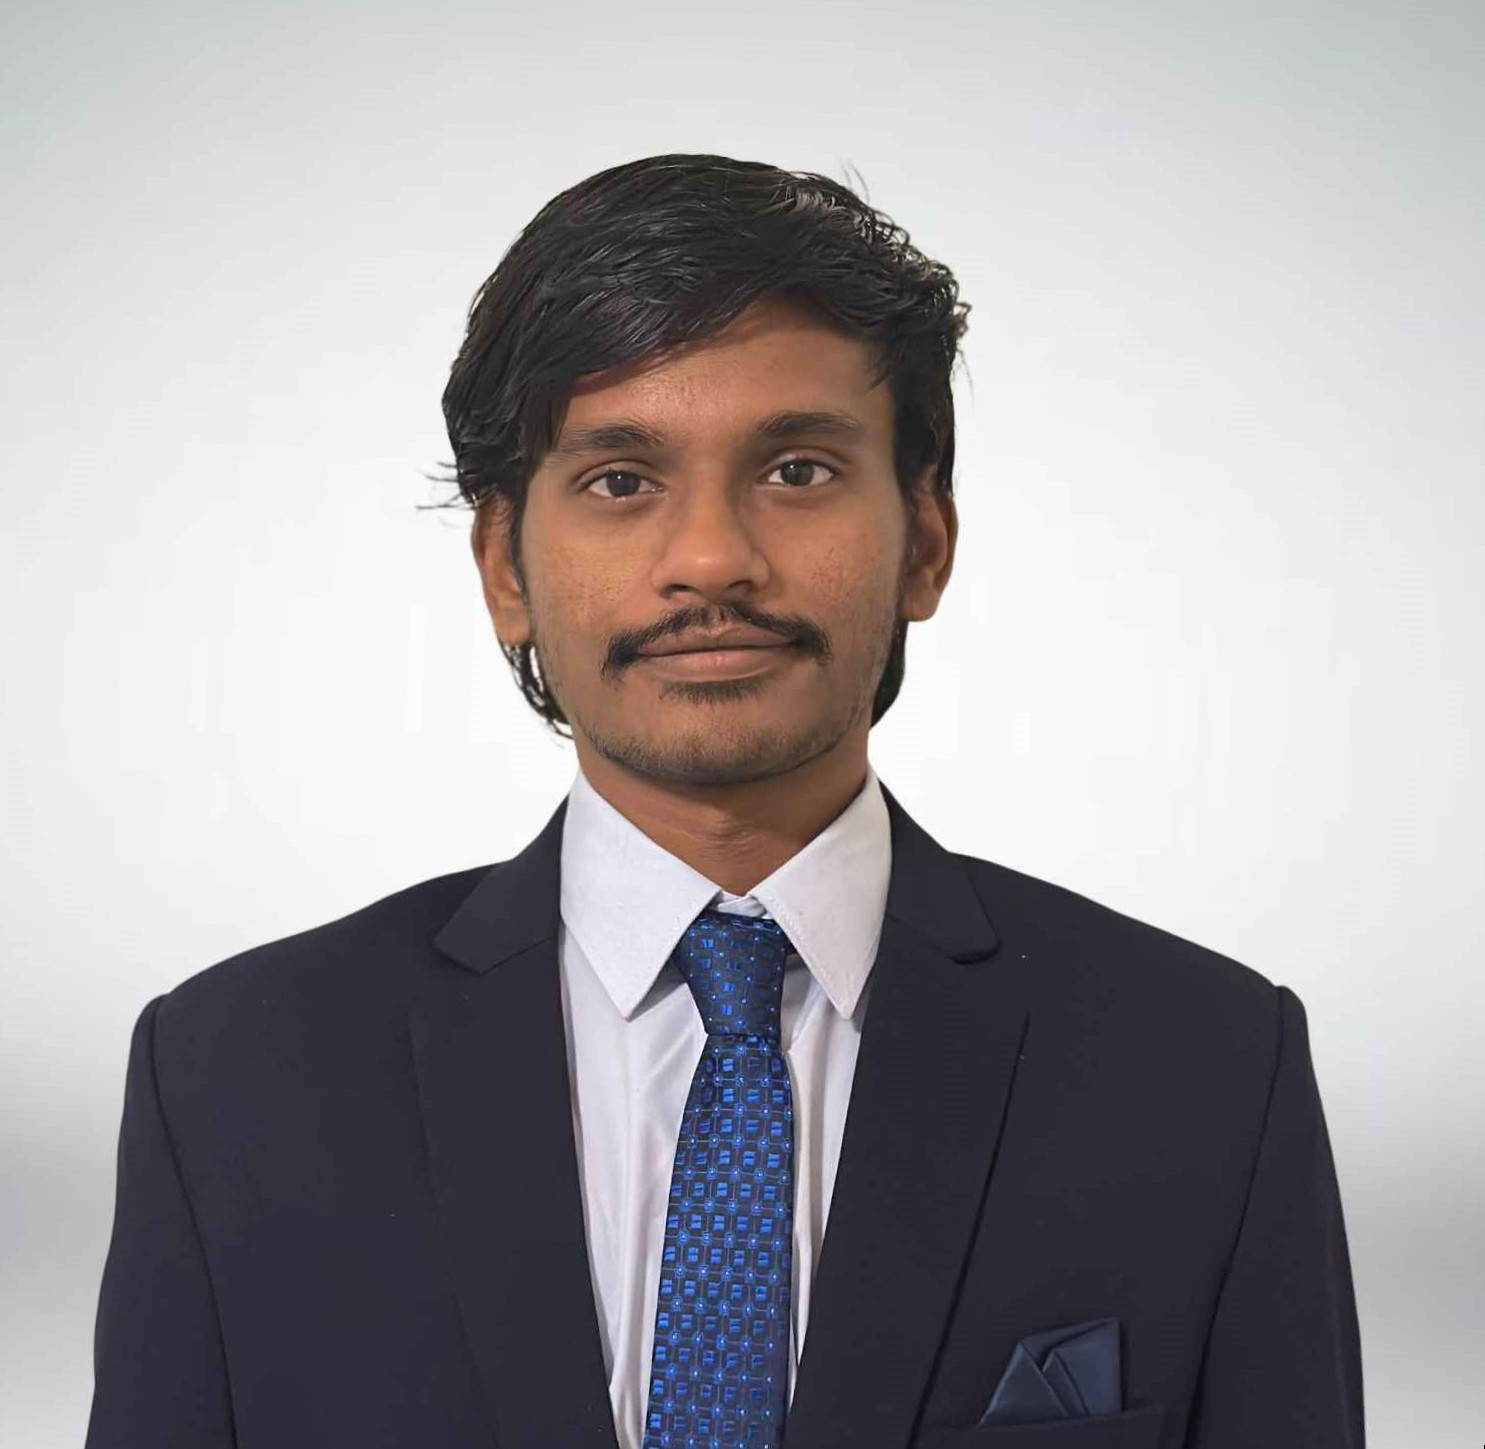
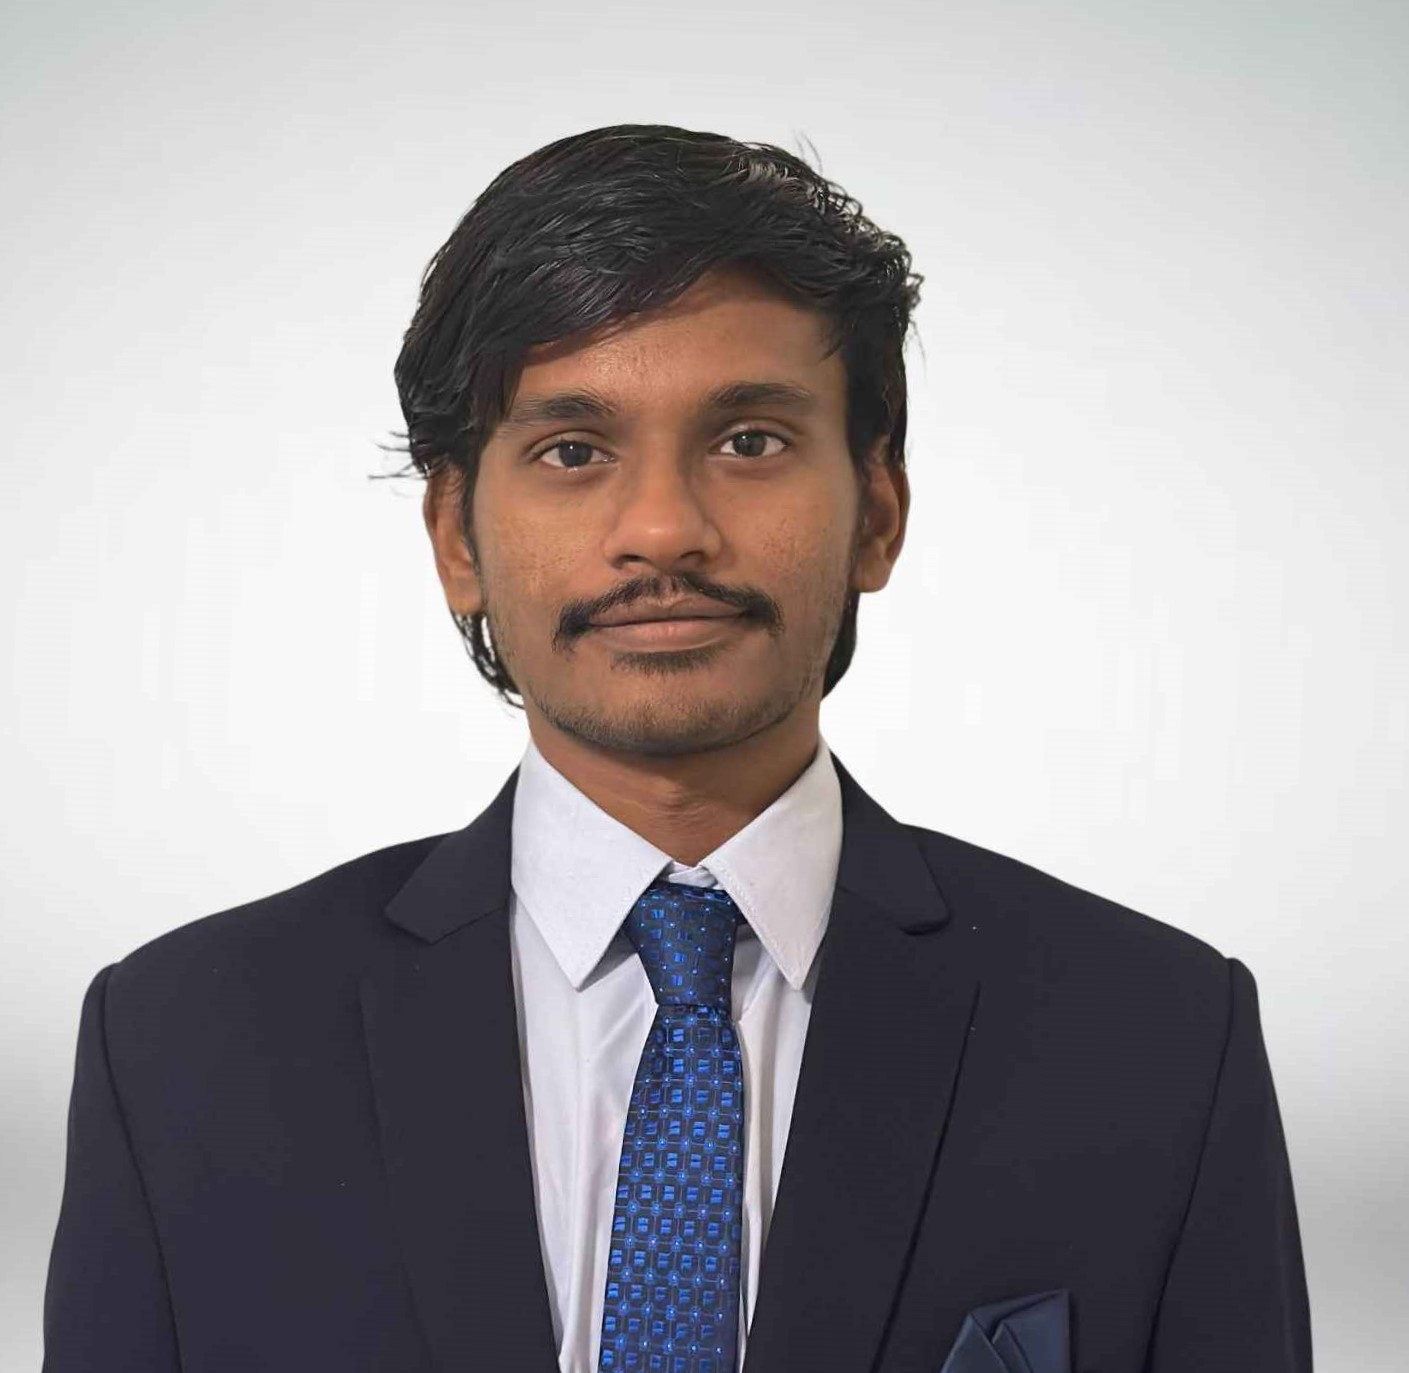
Editing CV links Reiterating deployment

diff --git a/pages/cv.html b/pages/cv.html
@@ -15,5 +15,5 @@ external_url:
     https://docs.google.com/gview?url=https://tejalbarnwal.github.io/pdfs/CV.pdf&embedded=true
 </a> -->
 
-<iframe src="https://drive.google.com/file/d/1-lLNQAUHq-Zso_PkHgD5RguQl78b0x53/view?usp=sharing" width="75%" height="1000px"></iframe>
+<iframe src="https://docs.google.com/gview?url=https://naren200.github.io/pdfs/CV.pdf&embedded=true" width="75%" height="1000px"></iframe>
 </div>

diff --git a/pages/art.md b/pages/art.md
@@ -12,7 +12,7 @@ permalink: /art/
 <p style="text-align: center;">I am passionate about entrepreneurship and I believe that technology can be used to solve some of the world's biggest problems. I am excited to use my skills in robotics and artificial intelligence to create businesses that make a positive impact on the world.</p>
 
 
-<p>
+<p style="font-size: 22px">
 <br>
 <br>
 <b>My long term goals are to:</b></p>
@@ -31,7 +31,7 @@ permalink: /art/
 I am confident that I can achieve my goals with hard work and dedication. I am excited to see what the future holds and I am grateful for the opportunity to pursue my passion for entrepreneurship.
 </p>
 
-<p><b>Describing my passion towards entrepreneurship</b></p>
+<p style="font-size: 20px"><b>Describing my passion towards entrepreneurship</b></p>
 
 Entrepreneurship has always been a driving force in my life. The idea of taking innovative ideas and turning them into successful ventures ignites a fire within me. I firmly believe that my combination of technical expertise in robotics and AI, coupled with my entrepreneurial spirit, will pave the way for me to create a business that not only pushes the boundaries of technology but also makes a positive impact on society.
 
@@ -39,7 +39,7 @@ With my background in robotics and AI, I am constantly exploring ways to harness
 
 My long-term goal is to establish a business that not only develops and manufactures advanced robotics but also integrates AI algorithms to enhance their capabilities further. I am passionate about creating intelligent machines that can autonomously perform complex tasks, revolutionizing industries such as healthcare, manufacturing, and logistics.
 
-<p><b>Past entrepreneurial experience</b></p>
+<p style="font-size: 20px"><b>Past entrepreneurial experience</b></p>
 
 One of my most significant entrepreneurial experiences to date involved creating custom content through a series of one-on-one discussions with a business. This collaboration allowed me to understand their unique needs and develop tailored solutions. By delivering compelling content that met their requirements, I not only satisfied their expectations but also built a strong professional relationship. This experience reaffirmed my belief in the power of effective communication and the ability to deliver tangible results.
 
@@ -49,7 +49,7 @@ This experience further fuelled my passion for entrepreneurship and demonstrated
 
 
 <p>
-<p><b>Unlock your potential and join forces with a driven professional ready to fuel your business growth!</b></p>
+<p style="font-size: 20px"><b>Unlock your potential and join forces with a driven professional ready to fuel your business growth!</b></p>
 
 <p>
 As you explore my portfolio, I hope to convey my enthusiasm for entrepreneurship and showcase how my robotics and AI expertise can be transformed into a successful business venture. I am excited to collaborate with like-minded individuals and organizations to shape the future with technology-driven innovation.
